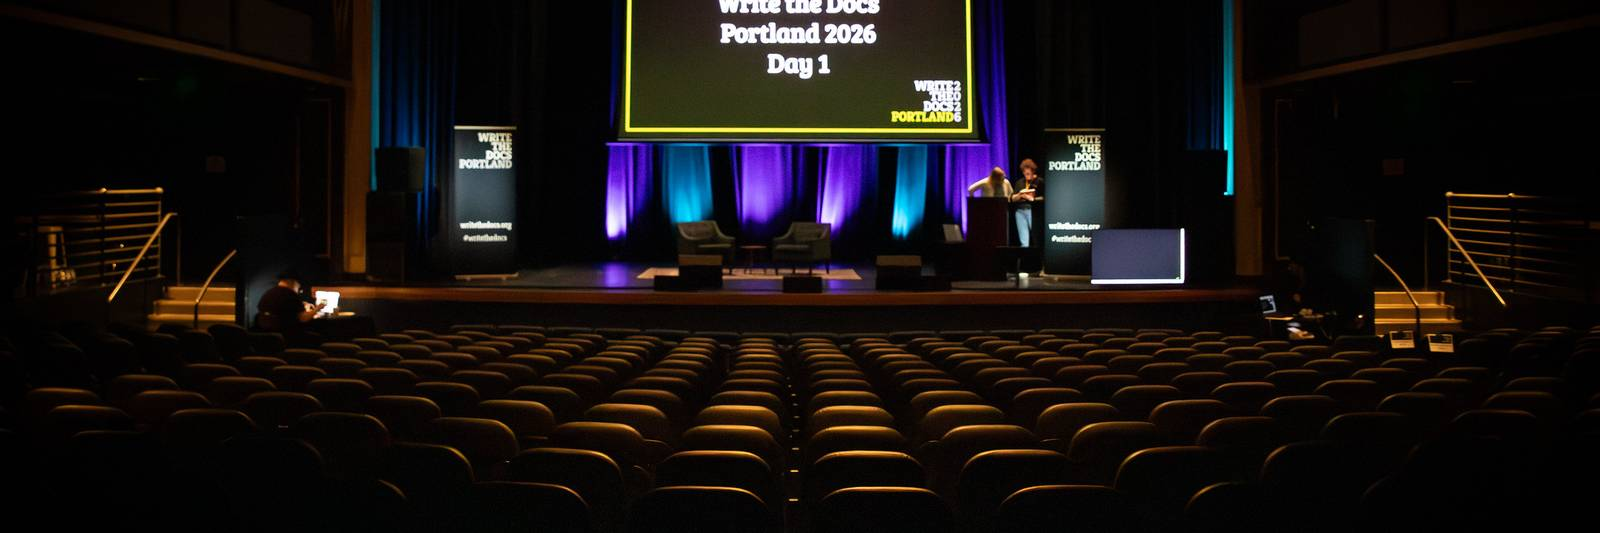
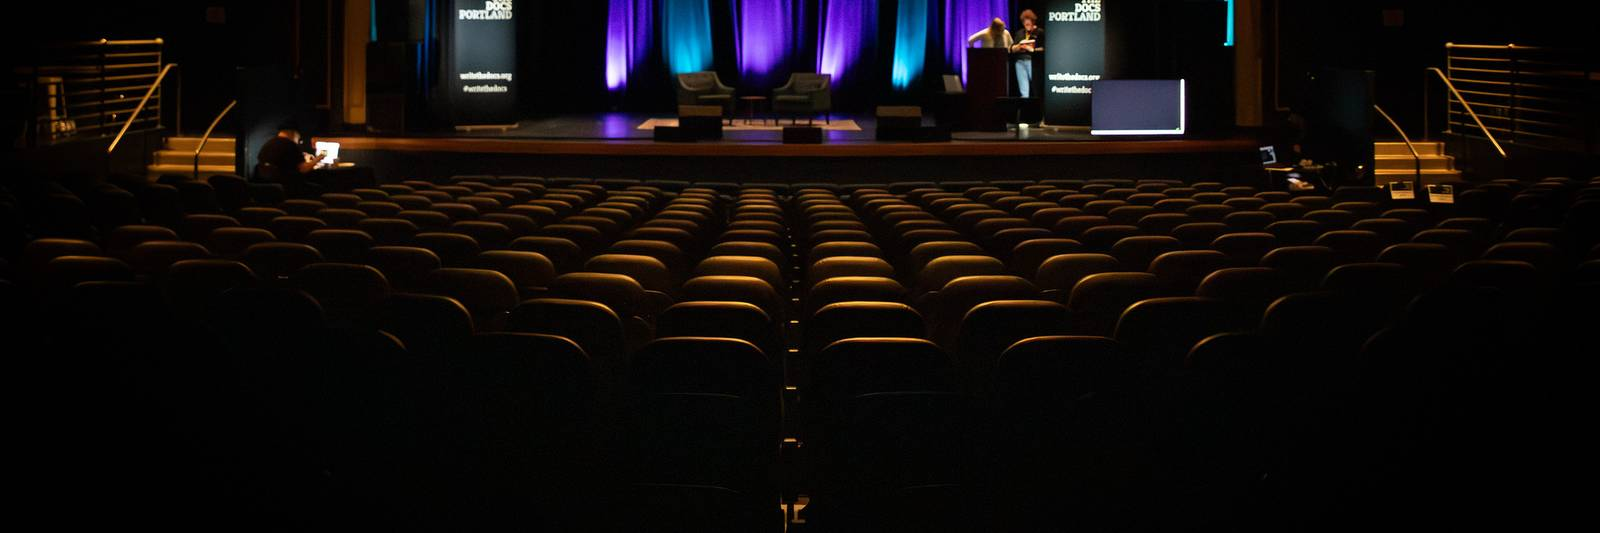
site: front pages open on the room, not a group photo
The community front page shows a full room at Write the Docs Berlin 2026
from behind, and Portland 2027 shows the Revolution Hall auditorium.

Claude-Session: https://claude.ai/code/session_01VLj42kdrY3z1YMQBpjzv5G

diff --git a/docs/conf/portland/2027/index.md b/docs/conf/portland/2027/index.md
@@ -1,6 +1,6 @@
 ---
 template: 2027/index.html
-banner: _static/conf/images/headers/portland-2026-small-group.jpg
+banner: _static/conf/images/photos/auditorium-day-1-55249270408.jpg
 og:image: _static/conf/images/headers/{{shortcode}}-{{year}}-opengraph.jpg
 og:description: "{{ social_description }}"
 myst:

diff --git a/docs/index.rst b/docs/index.rst
@@ -1,5 +1,5 @@
 :template: community/index.html
-:banner: _static/conf/images/headers/portland-2025-group.jpg
+:banner: _static/conf/images/photos/audience-berlin-55523762940.jpg
 
 .. meta::
    :description: A series of events for technical writers,
